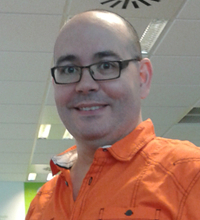
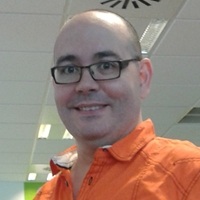
Corrections

diff --git a/templates/welovejs5-2013-summer.php b/templates/welovejs5-2013-summer.php
@@ -19,7 +19,7 @@
 				<div class="row">
                     <div class="span2">
                         <div class="thumbnail">
-                        	<img src="<?=$assets_path?>img/speakers/jose.deblas.jpg" alt="Jose de Blas" />
+                        	<img src="<?=$assets_path?>img/speakers/jose.deblas.png" alt="Jose de Blas" />
                             <ul class="unstyled inline">
                                 <li><a href="https://twitter.com/#!/wecanbuygoogle" class="sb small twitter">Twitter</a></li>
                             </ul>

diff --git a/config/welovejs.php b/config/welovejs.php
@@ -18,7 +18,7 @@ $config = array(
 		)
 	),
 	'next_events' => array(
-		'welovejs4-2013-summer' => '4) 15 June 2013'
+		'welovejs5-2013-summer' => '4) 15 June 2013'
 	),
 	'past_events' => array(
 		'welovejs4-2013-winter' => '4) 2 Mar 2013',
